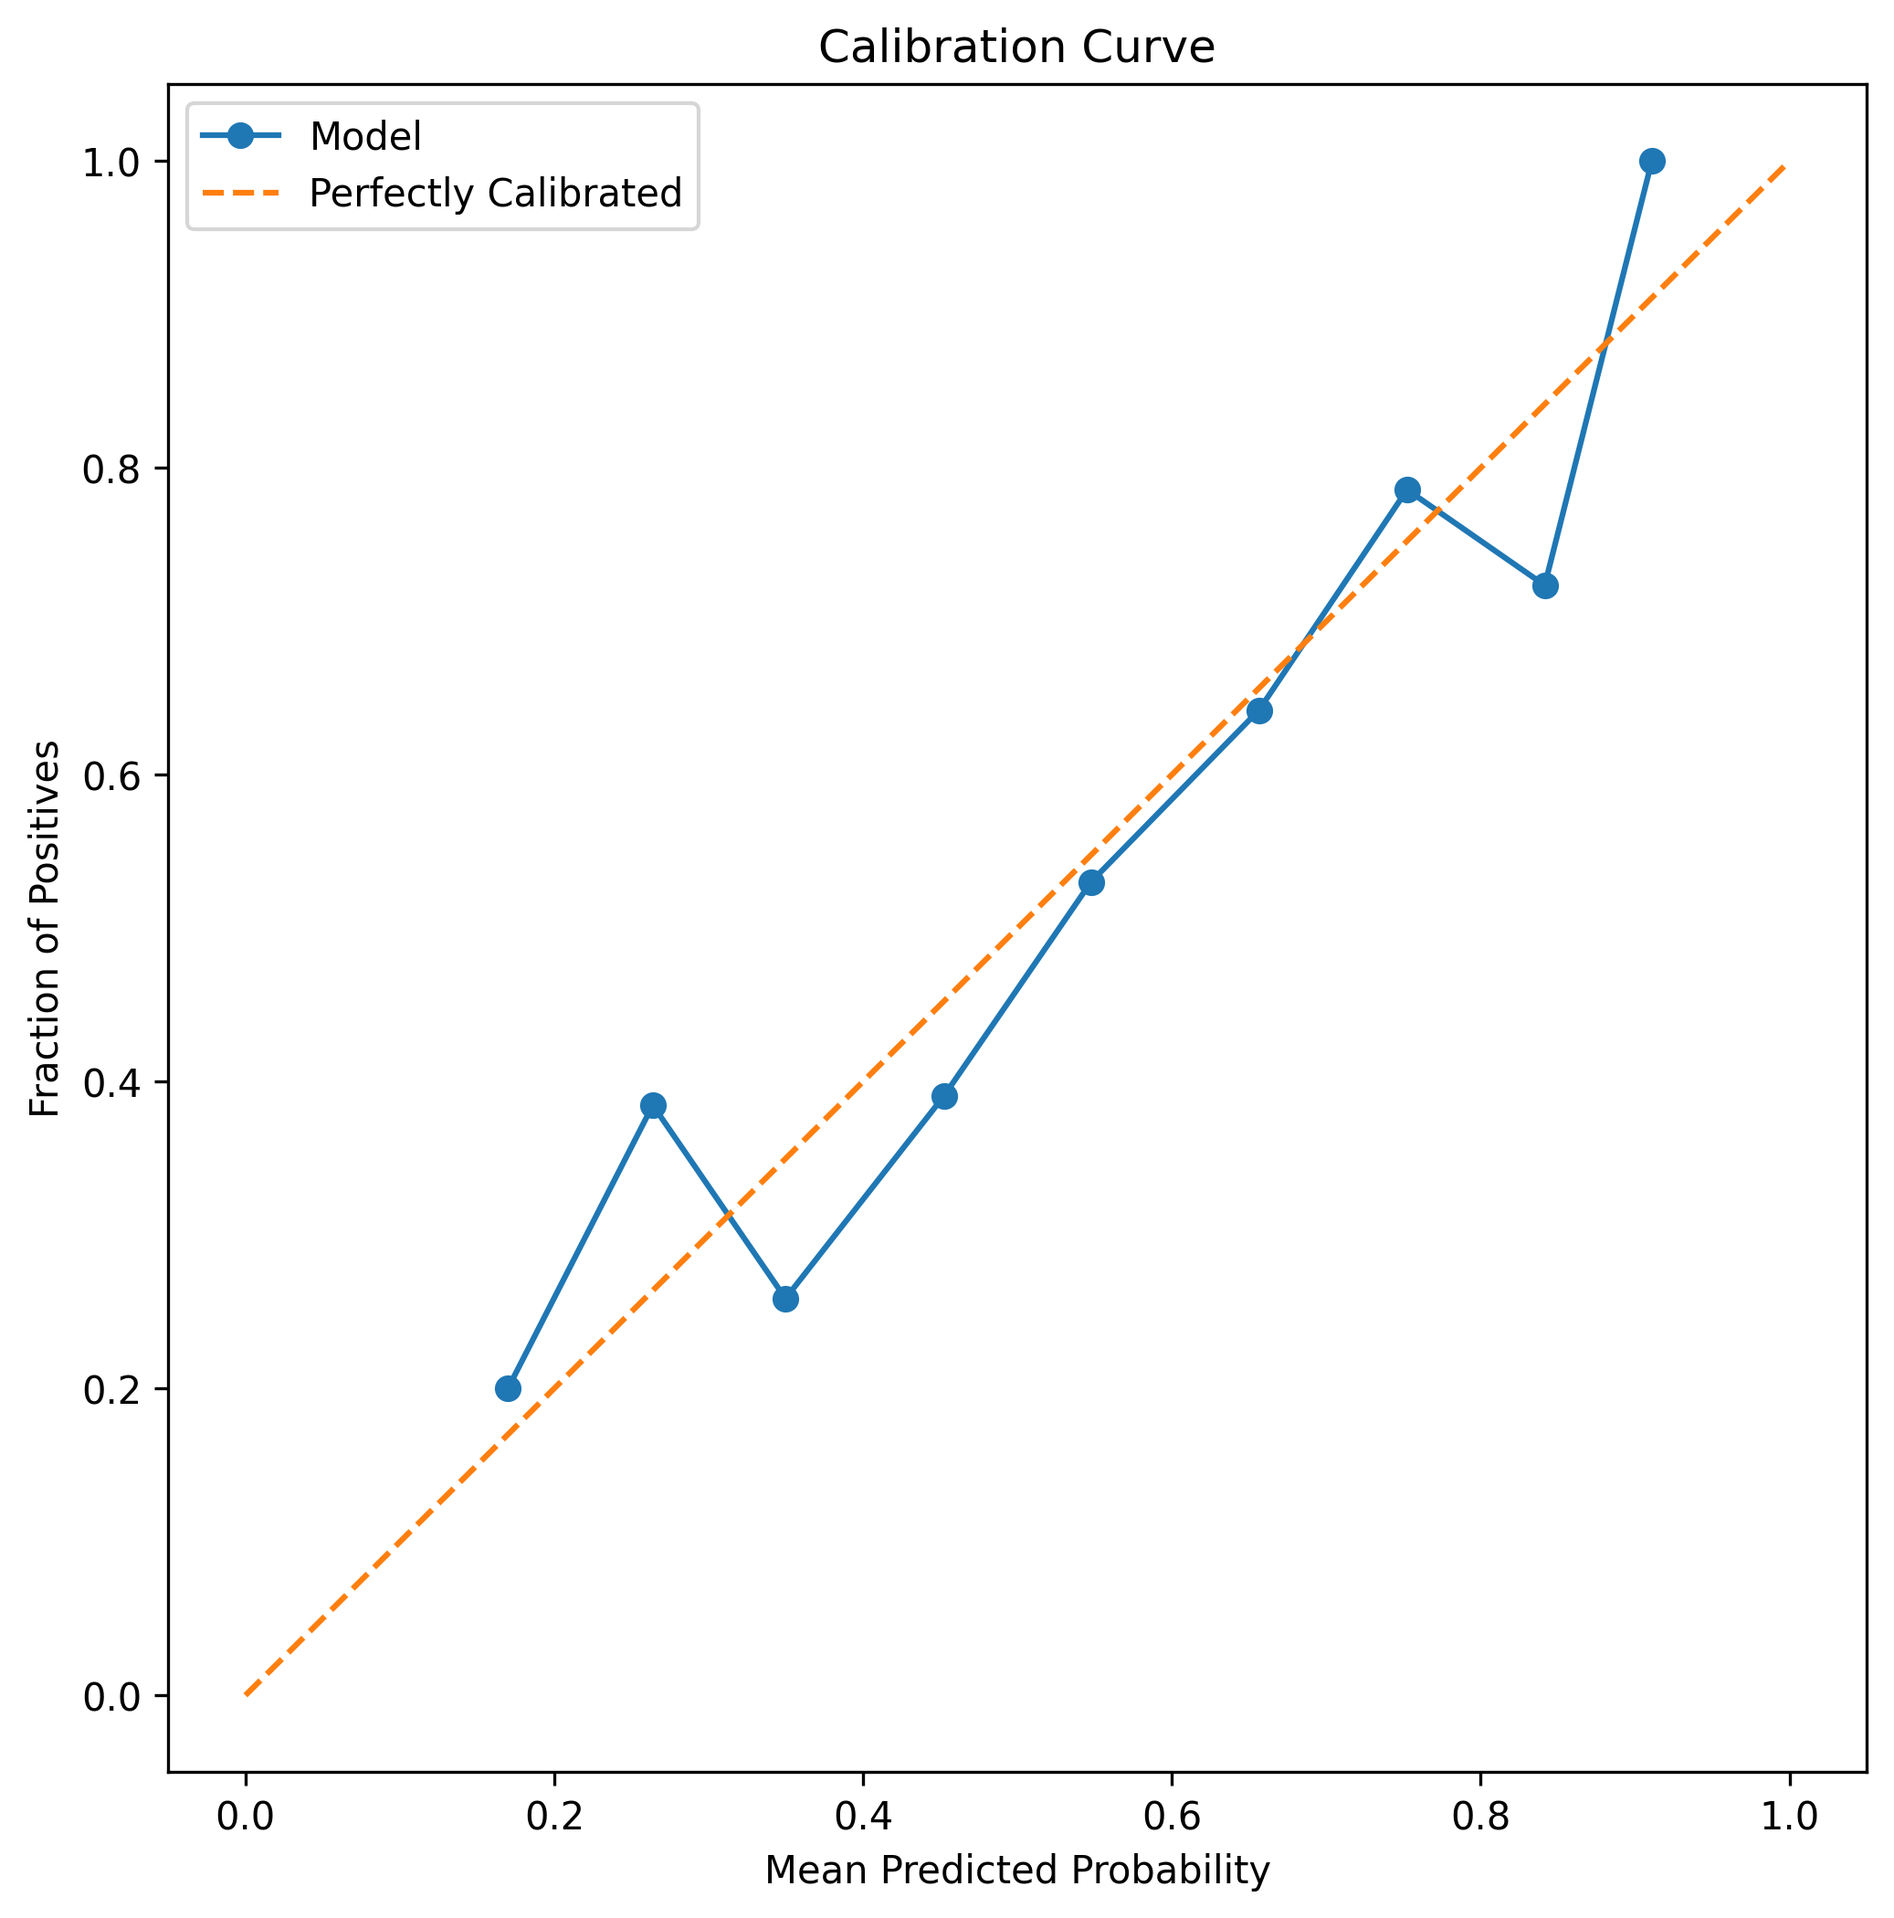
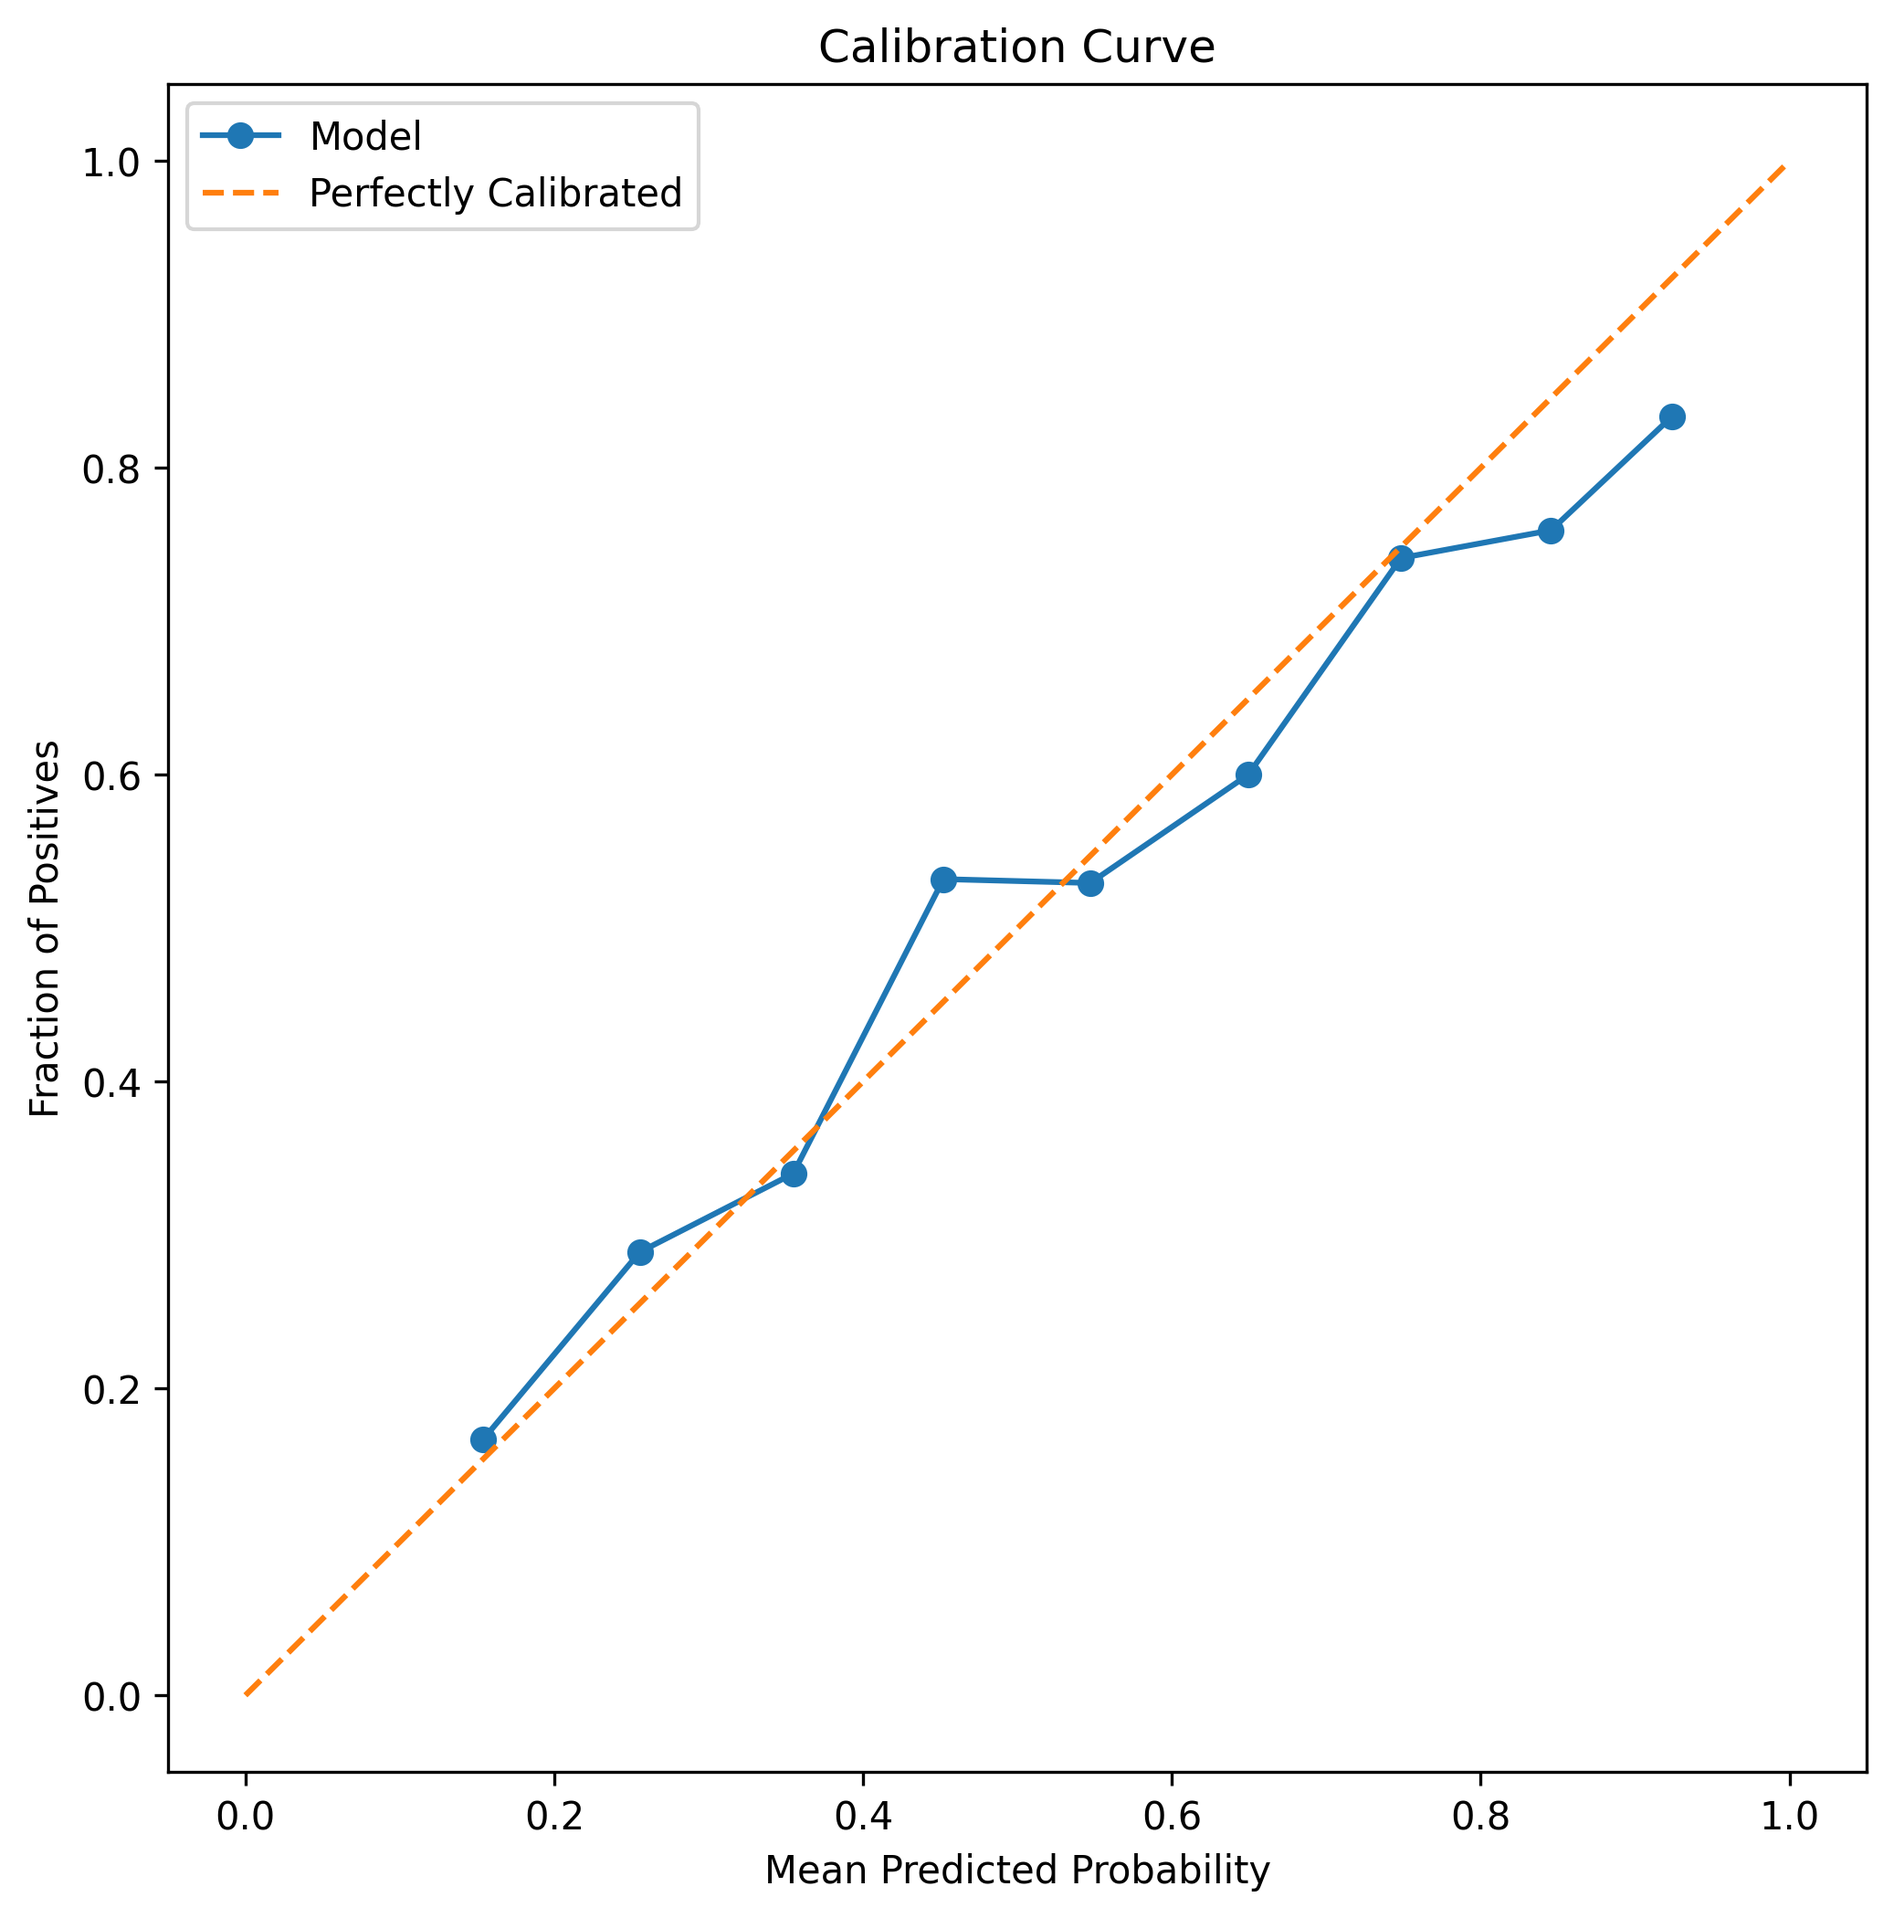
silva_v_delgado

diff --git a/about.html b/about.html
@@ -28,10 +28,10 @@
 
     <p class="about-text">
       Probabilities are generated by a production grade model after 100+ iterations,
-      it is a weighted ensemble of various transformer and tree models
-      (<strong>TabDPT + TabPFN3 + XGBoost</strong>) using <strong>8000+</strong> data points
-      and curating <strong>31</strong> features such as striking/grappling differentials,
-      Elo, physical stats. <strong>This is an ongoing project/research which will be improved with
+      it is a weighted ensemble of various frontier foundation transformers and tree models
+      (<strong>TabDPT 1.3 + TabPFN-3 + TabICLv2 + CatBoost + LightGBM</strong>) using <strong>8,700+</strong> data points
+      and curating <strong>39</strong> mathematical features such as opponent-adjusted decayed performance (AdjPerf), striking/grappling reliability,
+      Elo trend, and physical differentials. <strong>This is an ongoing project/research which will be improved with
       each event as I get to know its shortcomings and strengths.</strong>
     </p>
     <p class="about-byline">
@@ -43,45 +43,45 @@
       </a>
     </p>
 
-    <h2 class="section-label">R38d Performance</h2>
+    <h2 class="section-label">R51 Performance (AutoGluon 1.6.1 + TabDPT 1.3)</h2>
     <div class="metrics-grid">
       <div class="metric-card">
         <div class="metric-label">Val Log Loss</div>
-        <div class="metric-value">0.6015</div>
-        <div class="metric-sub">453 fights · selection</div>
+        <div class="metric-value">0.5738</div>
+        <div class="metric-sub">406 fights · selection</div>
       </div>
       <div class="metric-card">
         <div class="metric-label">Test Log Loss</div>
-        <div class="metric-value">0.6237</div>
-        <div class="metric-sub">453 fights · holdout</div>
+        <div class="metric-value">0.6210</div>
+        <div class="metric-sub">416 fights · holdout</div>
       </div>
       <div class="metric-card">
         <div class="metric-label">ROC AUC</div>
-        <div class="metric-value">0.7058</div>
+        <div class="metric-value">0.7093</div>
         <div class="metric-sub">test</div>
       </div>
       <div class="metric-card">
         <div class="metric-label">Val Accuracy</div>
-        <div class="metric-value">67.8%</div>
-        <div class="metric-sub">453 fights</div>
+        <div class="metric-value">68.0%</div>
+        <div class="metric-sub">406 fights</div>
       </div>
       <div class="metric-card">
         <div class="metric-label">Test Accuracy</div>
-        <div class="metric-value">66.9%</div>
-        <div class="metric-sub">453 fights</div>
+        <div class="metric-value">65.9%</div>
+        <div class="metric-sub">416 fights</div>
       </div>
       <div class="metric-card">
         <div class="metric-label">Brier Score</div>
-        <div class="metric-value">0.2160</div>
+        <div class="metric-value">0.2150</div>
         <div class="metric-sub">test</div>
       </div>
       <div class="metric-card">
         <div class="metric-label">Features</div>
-        <div class="metric-value">31</div>
+        <div class="metric-value">39</div>
       </div>
       <div class="metric-card">
         <div class="metric-label">Training Set</div>
-        <div class="metric-value">2,100</div>
+        <div class="metric-value">1,914</div>
         <div class="metric-sub">fights</div>
       </div>
       <div class="metric-card">
@@ -102,37 +102,37 @@
       <tbody>
         <tr>
           <td>2024 (Dec)</td>
-          <td>21</td>
-          <td>76.2%</td>
+          <td>8</td>
+          <td>75.0%</td>
         </tr>
         <tr>
           <td>2025</td>
-          <td>285</td>
-          <td>68.4%</td>
+          <td>271</td>
+          <td>66.8%</td>
         </tr>
         <tr>
           <td>2026 (Jan–Jun)</td>
-          <td>147</td>
-          <td>62.6%</td>
+          <td>137</td>
+          <td>63.5%</td>
         </tr>
         <tr>
           <td><strong>Full test</strong></td>
-          <td><strong>453</strong></td>
-          <td><strong>66.9%</strong></td>
+          <td><strong>416</strong></td>
+          <td><strong>65.9%</strong></td>
         </tr>
       </tbody>
     </table>
 
     <h2 class="section-label">Calibration Curve</h2>
     <div class="chart-card">
-      <img src="calibration_curve.png?v=r38d" alt="Calibration curve" class="chart-img">
-      <p class="chart-caption">R38d test set: predicted probability vs actual win rate. Closer to the diagonal = better calibrated.</p>
+      <img src="calibration_curve.png?v=r51" alt="Calibration curve" class="chart-img">
+      <p class="chart-caption">R51 test set: predicted probability vs actual win rate. Closer to the diagonal = better calibrated.</p>
     </div>
 
     <h2 class="section-label">Feature Importance</h2>
     <div class="chart-card">
-      <img src="feature_importance.png?v=r38d" alt="Feature importance" class="chart-img">
-      <p class="chart-caption">R38d permutation importance on the test set. Higher = more predictive signal.</p>
+      <img src="feature_importance.png?v=r51" alt="Feature importance" class="chart-img">
+      <p class="chart-caption">R51 permutation importance on the test set. Higher = more predictive signal.</p>
     </div>
 
 

diff --git a/script.js b/script.js
@@ -15,6 +15,26 @@
  */
 
 const EVENTS = [
+   {
+    name: "Noche UFC: Silva vs. Delgado",
+    date: "2026-12-05",
+    location: "Glendale, Arizona, USA",
+    status: "upcoming",
+    fights: [
+      { a: "Jean Silva", b: "Jose Delgado", pA: 60.1, pB: 39.9, oA: -425, oB: +337, me: true, charts: "fights/silva_v_delgado" },
+      { a: "Brandon Moreno", b: "Joseph Morales", pA: 63.1, pB: 36.9, oA: 100, oB: -120, me: false, charts: "fights/moreno_v_morales" },
+      { a: "Waldo Cortes Acosta", b: "Curtis Blaydes", pA: 68.3, pB: 31.7, oA: -190, oB: +165, me: false, charts: "fights/acosta_v_blaydes" },
+      { a: "David Martinez", b: "Dan Ige", pA: 89.0, pB: 11.0, oA: -400, oB: +316, me: false, charts: "fights/martinez_v_ige" },
+      { a: "Tim Elliot", b: "Edgar Chairez", pA: 23.4, pB: 76.6, oA: +183, oB: -215, me: false, charts: "fights/tim_vs_edgar" },
+      { a: "Ignacio Bahamondes", b: "Muslim Salikhov", pA: 86.7, pB: 13.3, oA: -525, oB: +400, me: false, charts: "fights/salikhov_v_ignacio" },
+      { a: "Rafa Garcia", b: "Rongzhu", pA: 66.7, pB: 33.3, oA: +140, oB: -160, me: false, charts: "fights/garcia_v_rongzhu" },
+
+    ]
+  },
+ 
+
+
+
   {
     name: "UFC Fight Night: Hooker vs. Parnasse",
     date: "2026-09-05",
